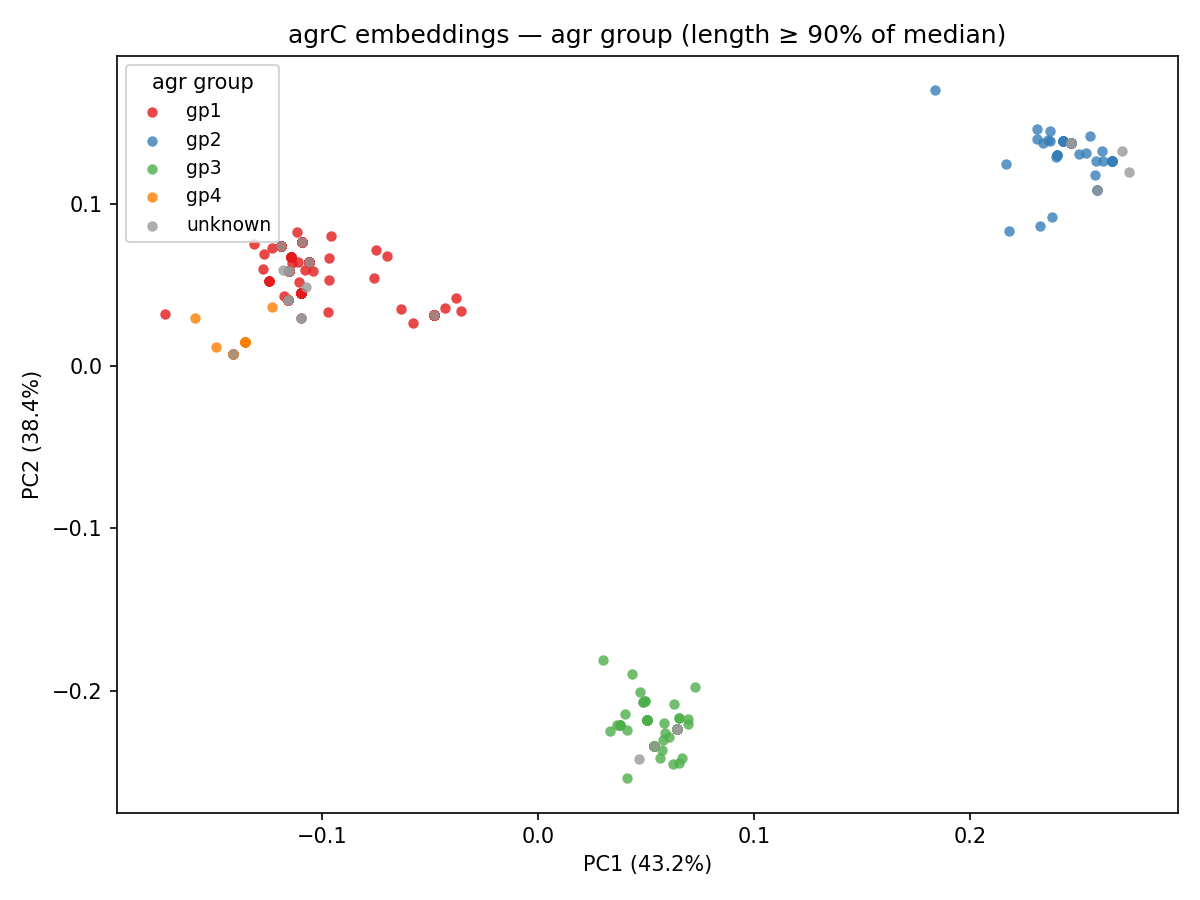
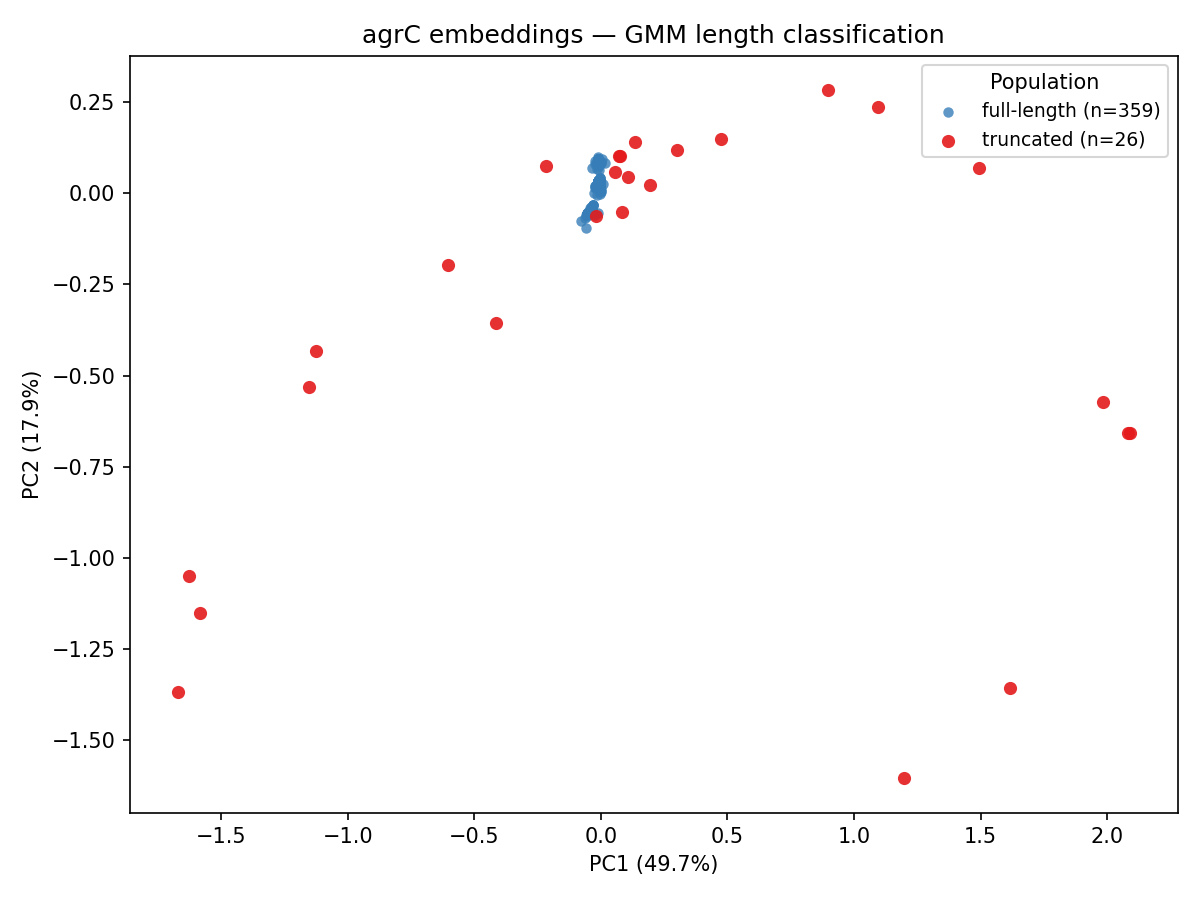
PCA on all embeddings, colored by GMM full-length vs truncated
GMM identifies 359 full-length (mean 429.4 aa) and 26 truncated
(mean 287.9 aa) sequences. PCA fitted and plotted on all 385.

https://claude.ai/code/session_01NFC4RxMTbBLYjMsjyKhpz9

diff --git a/agrc_umap.py b/agrc_umap.py
@@ -3,9 +3,10 @@ import torch
 import numpy as np
 import pandas as pd
 from sklearn.decomposition import PCA
+from sklearn.mixture import GaussianMixture
 import matplotlib.pyplot as plt
 
-# ── Parse sequences from FASTA ────────────────────────────────────────────────
+# ── Parse sequence lengths from FASTA ────────────────────────────────────────
 seq_lengths = {}
 with open("final_genes.faa") as fh:
     name, seq = None, []
@@ -21,71 +22,75 @@ with open("final_genes.faa") as fh:
     if name:
         seq_lengths[name] = len("".join(seq))
 
-lengths = np.array(list(seq_lengths.values()))
+lengths    = np.array(list(seq_lengths.values()))
+names      = list(seq_lengths.keys())
 mean_len   = lengths.mean()
 std_len    = lengths.std()
 median_len = np.median(lengths)
 
-cutoff  = median_len * 0.90
-kept    = {k: v for k, v in seq_lengths.items() if v >= cutoff}
-removed = len(seq_lengths) - len(kept)
+# ── GMM: identify full-length vs truncated populations ───────────────────────
+gmm = GaussianMixture(n_components=2, random_state=42)
+gmm.fit(lengths.reshape(-1, 1))
+component_labels      = gmm.predict(lengths.reshape(-1, 1))
+full_length_component = int(np.argmax(gmm.means_))
+component_means       = gmm.means_.flatten()
+component_stds        = np.sqrt(gmm.covariances_).flatten()
+
+n_full     = int((component_labels == full_length_component).sum())
+n_truncated = int((component_labels != full_length_component).sum())
 
 print(f"Sequence length  mean: {mean_len:.1f}  median: {median_len:.1f}  std: {std_len:.1f}")
-print(f"90% of median cutoff: {cutoff:.1f} aa")
-print(f"Total: {len(seq_lengths)}  kept: {len(kept)}  removed (<cutoff): {removed}")
+print(f"\nGMM components:")
+for c in range(2):
+    tag = "full-length" if c == full_length_component else "truncated"
+    print(f"  [{tag}]: mean={component_means[c]:.1f} aa, "
+          f"std={component_stds[c]:.1f} aa, n={int((component_labels==c).sum())}")
 
-# ── Load agrC typing ──────────────────────────────────────────────────────────
-df_meta = pd.read_excel("DatasetS1.xlsx", sheet_name="TableS3")
-acc_to_agr = dict(zip(df_meta["Accession"], df_meta["agr group"]))
+# Map each sequence name to its GMM label
+name_to_gmm = {names[i]: component_labels[i] for i in range(len(names))}
 
-# ── Load embeddings for sequences passing the length filter ──────────────────
+# ── Load ALL embeddings ───────────────────────────────────────────────────────
 pt_dir = "agrC_fresh"
-embeddings, agr_labels, basenames = [], [], []
+embeddings, gmm_labels, basenames = [], [], []
 
 for fname in sorted(os.listdir(pt_dir)):
     if not fname.endswith(".pt"):
         continue
-    label = fname[:-3]          # strip .pt → matches FASTA header
-    if label not in kept:
+    label = fname[:-3]
+    if label not in name_to_gmm:
         continue
-    accession = fname.split("_")[0]
     data = torch.load(os.path.join(pt_dir, fname), map_location="cpu")
     embeddings.append(data["mean_representations"][6].numpy())
-    agr_labels.append(acc_to_agr.get(accession, "unknown"))
+    gmm_labels.append(name_to_gmm[label])
     basenames.append(fname)
 
 embeddings = np.array(embeddings)
-agr_labels = np.array(agr_labels)
-print(f"\nEmbeddings loaded for length-filtered set: {len(embeddings)}")
-print("agr group counts:\n", pd.Series(agr_labels).value_counts().to_string())
+gmm_labels = np.array(gmm_labels)
+print(f"\nTotal embeddings loaded: {len(embeddings)}")
 
-# ── PCA on all length-filtered sequences ─────────────────────────────────────
+# ── PCA on all embeddings ─────────────────────────────────────────────────────
 pca    = PCA(n_components=2, random_state=42)
 coords = pca.fit_transform(embeddings)
 var    = pca.explained_variance_ratio_ * 100
-print(f"\nPC1: {var[0]:.1f}%  PC2: {var[1]:.1f}%")
+print(f"PC1: {var[0]:.1f}%  PC2: {var[1]:.1f}%")
 
 # ── Plot ──────────────────────────────────────────────────────────────────────
-agr_colors = {
-    "gp1":     "#E41A1C",
-    "gp2":     "#377EB8",
-    "gp3":     "#4DAF4A",
-    "gp4":     "#FF7F00",
-    "unknown": "#999999",
-}
-
 fig, ax = plt.subplots(figsize=(8, 6))
-for group, color in agr_colors.items():
-    mask = agr_labels == group
-    if mask.sum() == 0:
-        continue
+
+groups = [
+    (full_length_component, "full-length", "#377EB8", 25, 0.8),
+    (1 - full_length_component, "truncated",    "#E41A1C", 40, 0.9),
+]
+for comp, label, color, size, alpha in groups:
+    mask = gmm_labels == comp
     ax.scatter(coords[mask, 0], coords[mask, 1],
-               c=color, label=group, s=25, alpha=0.8, linewidths=0)
+               c=color, label=f"{label} (n={mask.sum()})",
+               s=size, alpha=alpha, linewidths=0)
 
 ax.set_xlabel(f"PC1 ({var[0]:.1f}%)")
 ax.set_ylabel(f"PC2 ({var[1]:.1f}%)")
-ax.set_title("agrC embeddings — agr group (length ≥ 90% of median)")
-ax.legend(title="agr group", frameon=True, fontsize=9)
+ax.set_title("agrC embeddings — GMM length classification")
+ax.legend(title="Population", frameon=True, fontsize=9)
 plt.tight_layout()
 plt.savefig("agrc_pca.png", dpi=150)
 print("Saved agrc_pca.png")